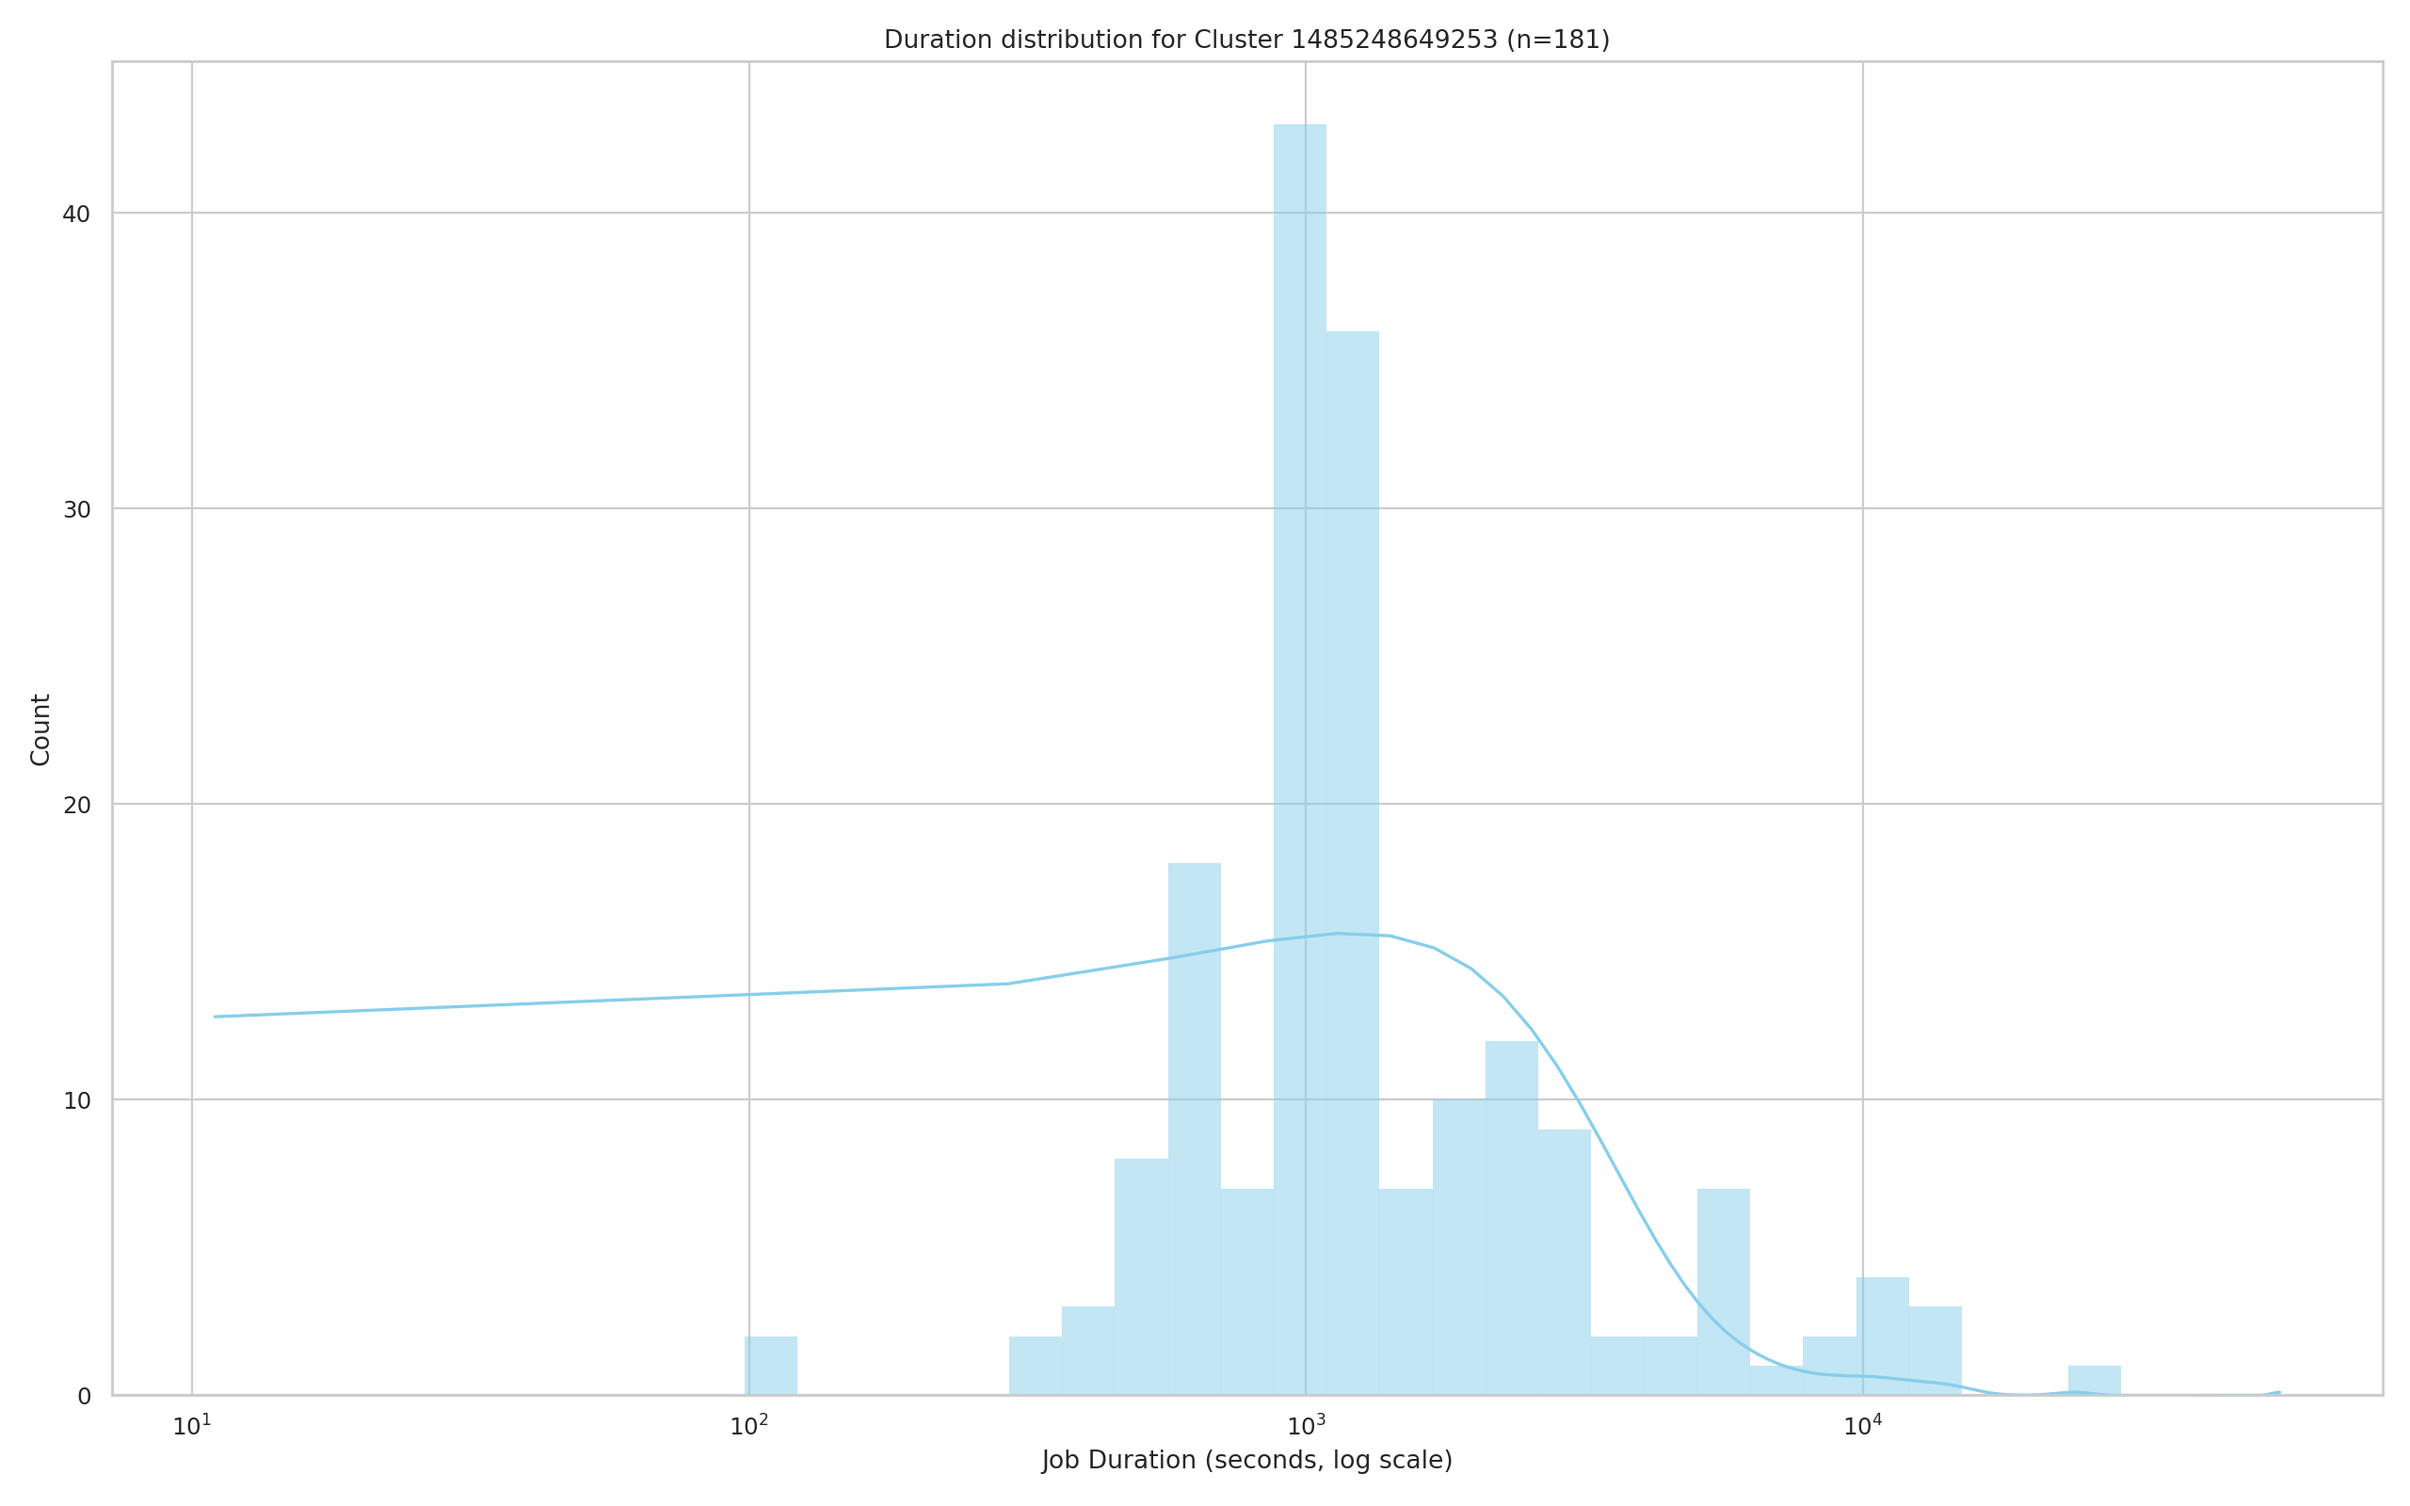
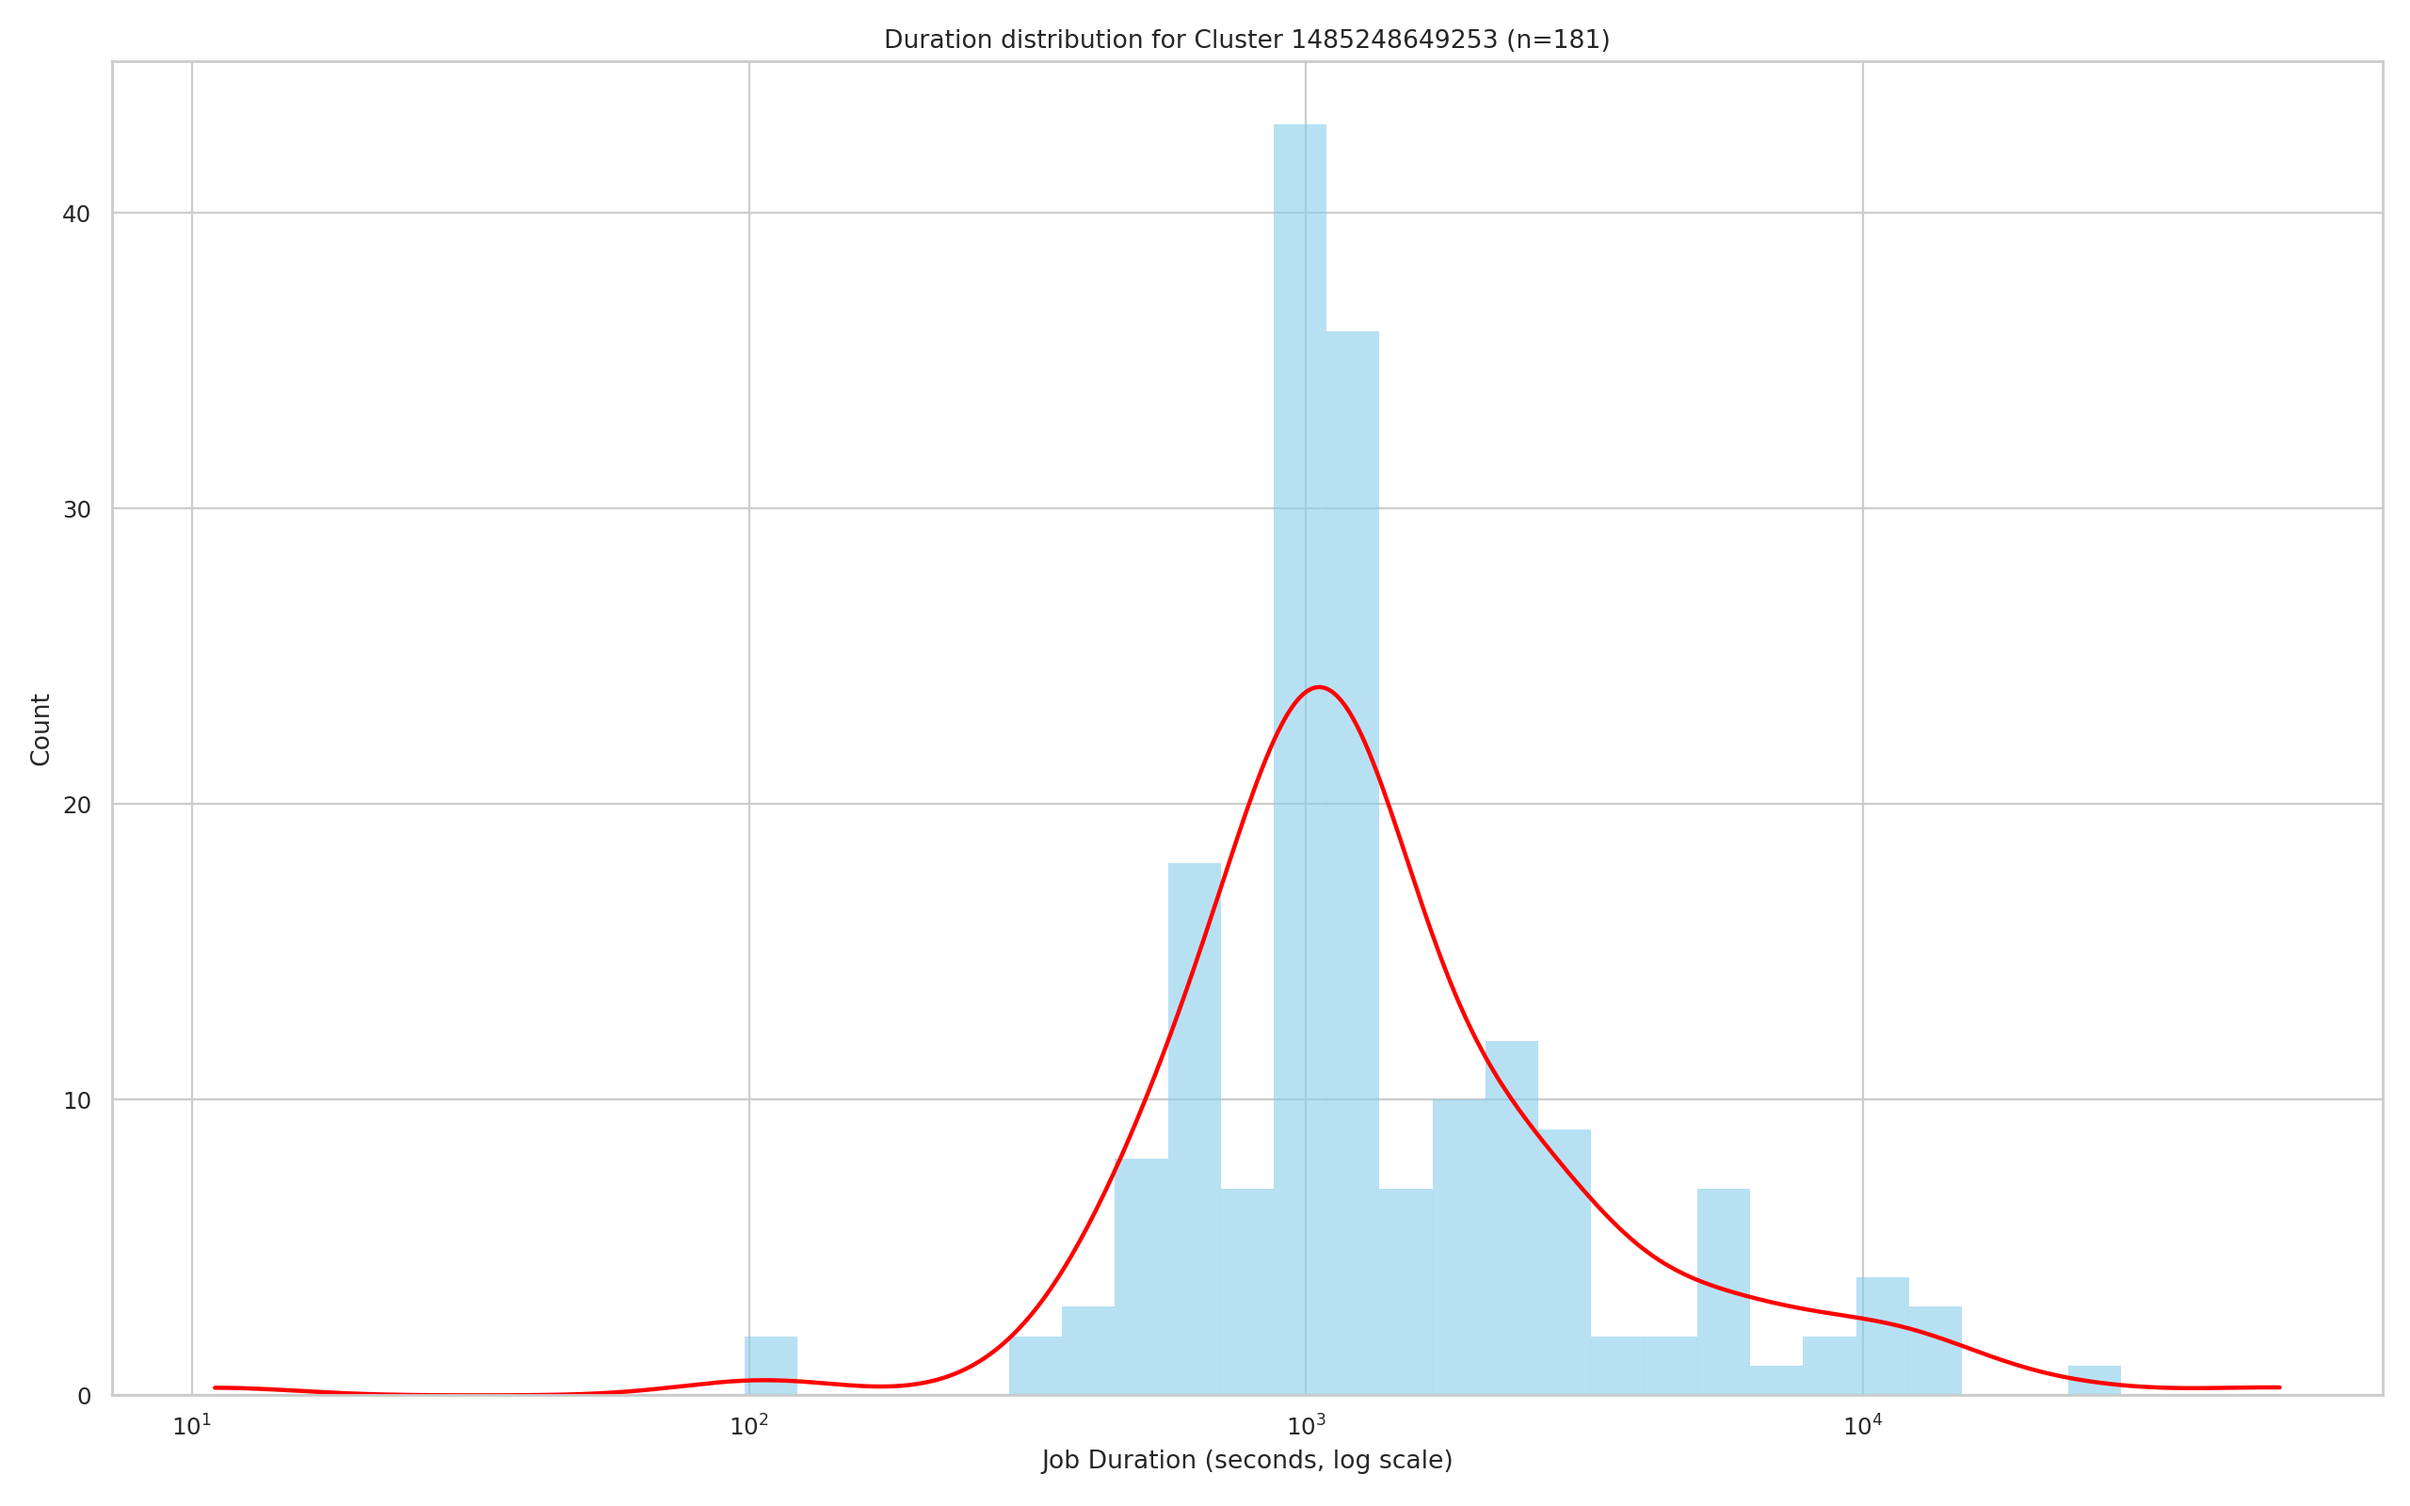
Modify image

diff --git a/problem2.py b/problem2.py
@@ -177,39 +177,6 @@ def run_problem2(spark: SparkSession) -> None:
     print(f"✅ Saved: {bar_chart_path}")
 
     # 5. Faceted density plot visualization
-    # logger.info("Faceted density plot visualization")
-    # print("[5/5] Faceted density plot visualization")
-    # sns.set_theme(style="whitegrid")
-    # timeseries = timeseries.withColumn(
-    #     "duration_sec",
-    #     (unix_timestamp(col("end_time")) - unix_timestamp(col("start_time"))).cast("long")
-    # )
-    # largest_cluster_id = str(cs_pdf.iloc[0]["cluster_id"])
-    # dur_pdf = (
-    #     timeseries
-    #     .filter((col("cluster_id") == lit(largest_cluster_id)) &
-    #             col("duration_sec").isNotNull() &
-    #             (col("duration_sec") > 0))
-    #     .select("duration_sec")
-    #     .toPandas()
-    # )
-    
-    # dur = dur_pdf["duration_sec"].astype(float).to_numpy()
-    # dur = dur[np.isfinite(dur)]
-    # dur = dur[(dur > 0)]
-    # bins = np.logspace(np.log10(dur.min()), np.log10(dur.max()), 40)
-    # density_plot_path = os.path.join(output_dir, "problem2_density_plot.png")
-    # plt.figure(figsize=(16, 10))
-    # sns.histplot(dur, bins=bins, kde=True, stat="count", color="skyblue", edgecolor="black")
-    # plt.xscale("log")
-    # plt.xlabel("Job Duration (seconds, log scale)")
-    # plt.ylabel("Count")
-    # plt.title(f"Duration distribution for Cluster {largest_cluster_id} (n={len(dur)})")
-    # plt.tight_layout()
-    # plt.savefig(density_plot_path, dpi=160)
-    # plt.close()
-    # print(f"✅ Saved: {density_plot_path}")
-    # 5. Faceted density plot visualization
     logger.info("Faceted density plot visualization")
     print("[5/5] Faceted density plot visualization")
     sns.set_theme(style="whitegrid")
@@ -226,40 +193,22 @@ def run_problem2(spark: SparkSession) -> None:
         .select("duration_sec")
         .toPandas()
     )
-
     dur = dur_pdf["duration_sec"].astype(float).to_numpy()
     dur = dur[np.isfinite(dur)]
     dur = dur[(dur > 0)]
-
-    # 对数等比分箱（你的配置保留）
     bins = np.logspace(np.log10(dur.min()), np.log10(dur.max()), 40)
     density_plot_path = os.path.join(output_dir, "problem2_density_plot.png")
 
     plt.figure(figsize=(16, 10))
-    # 直方图保持“计数”尺度
     sns.histplot(dur, bins=bins, stat="count", color="skyblue", edgecolor="black", alpha=0.6)
-
-    # --- 关键改动：在 log10 域做 KDE，并换算到“计数”尺度 ---
-    # log10(dur) 上的 KDE
     logx = np.log10(dur)
     kde_log = gaussian_kde(logx, bw_method="scott")
-
-    # 与直方图同范围的 log10 网格
     log_edges = np.log10(bins)
     logx_grid = np.linspace(log_edges.min(), log_edges.max(), 500)
-
-    # 每个 bin 的宽度在 log10 域是常数：Δlog10
     delta_log10 = np.mean(np.diff(log_edges))
-
-    # 将 KDE 从“密度”换算到“计数”：
-    # counts(x) = KDE_log(log10 x) * n * Δlog10
     counts_curve = kde_log(logx_grid) * len(dur) * delta_log10
     x_grid = 10 ** logx_grid
-
-    # 画红线
     plt.plot(x_grid, counts_curve, color="red", linewidth=2)
-
-    # 轴/标题
     plt.xscale("log")
     plt.xlabel("Job Duration (seconds, log scale)")
     plt.ylabel("Count")
